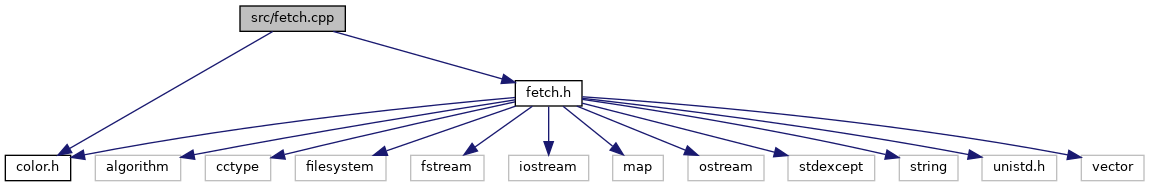
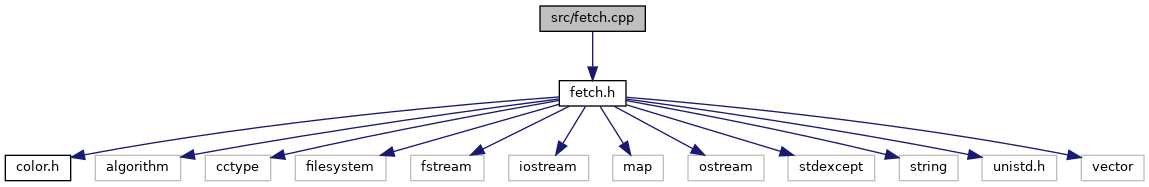
Deploying to gh-pages from @ youpong/procfetch@3544e771dfbbe5641f78a73ec0aed1d468b40a3f 🚀

diff --git a/fetch_8h_source.html b/fetch_8h_source.html
@@ -259,26 +259,36 @@ $(function() {
 <div class="line"><a name="l00245"></a><span class="lineno">  245</span>&#160;        escape_codes += BRIGHT;</div>
 <div class="line"><a name="l00246"></a><span class="lineno">  246</span>&#160;        <span class="keywordflow">return</span> *<span class="keyword">this</span>;</div>
 <div class="line"><a name="l00247"></a><span class="lineno">  247</span>&#160;    }</div>
-<div class="line"><a name="l00248"></a><span class="lineno">  248</span>&#160;    <a class="code" href="classCrayon.html">Crayon</a> color(<span class="keywordtype">string</span> color)</div>
+<div class="line"><a name="l00248"></a><span class="lineno">  248</span>&#160;    <a class="code" href="classCrayon.html">Crayon</a> underscore()</div>
 <div class="line"><a name="l00249"></a><span class="lineno">  249</span>&#160;    {</div>
-<div class="line"><a name="l00250"></a><span class="lineno">  250</span>&#160;        escape_codes += <a class="code" href="fetch_8h.html#aa0627648b948b2ee0ae4b3475bf73894">getColor</a>(color);</div>
+<div class="line"><a name="l00250"></a><span class="lineno">  250</span>&#160;        escape_codes += UNDERSCORE;</div>
 <div class="line"><a name="l00251"></a><span class="lineno">  251</span>&#160;        <span class="keywordflow">return</span> *<span class="keyword">this</span>;</div>
 <div class="line"><a name="l00252"></a><span class="lineno">  252</span>&#160;    }</div>
-<div class="line"><a name="l00253"></a><span class="lineno">  253</span>&#160;    <a class="code" href="classCrayon.html">Crayon</a> red()</div>
+<div class="line"><a name="l00253"></a><span class="lineno">  253</span>&#160;    <a class="code" href="classCrayon.html">Crayon</a> color(<span class="keywordtype">string</span> color)</div>
 <div class="line"><a name="l00254"></a><span class="lineno">  254</span>&#160;    {</div>
-<div class="line"><a name="l00255"></a><span class="lineno">  255</span>&#160;        escape_codes += RED;</div>
+<div class="line"><a name="l00255"></a><span class="lineno">  255</span>&#160;        escape_codes += <a class="code" href="fetch_8h.html#aa0627648b948b2ee0ae4b3475bf73894">getColor</a>(color);</div>
 <div class="line"><a name="l00256"></a><span class="lineno">  256</span>&#160;        <span class="keywordflow">return</span> *<span class="keyword">this</span>;</div>
 <div class="line"><a name="l00257"></a><span class="lineno">  257</span>&#160;    }</div>
-<div class="line"><a name="l00258"></a><span class="lineno">  258</span>&#160;    <a class="code" href="classCrayon.html">Crayon</a> green()</div>
+<div class="line"><a name="l00258"></a><span class="lineno">  258</span>&#160;    <a class="code" href="classCrayon.html">Crayon</a> red()</div>
 <div class="line"><a name="l00259"></a><span class="lineno">  259</span>&#160;    {</div>
-<div class="line"><a name="l00260"></a><span class="lineno">  260</span>&#160;        escape_codes += GREEN;</div>
+<div class="line"><a name="l00260"></a><span class="lineno">  260</span>&#160;        escape_codes += RED;</div>
 <div class="line"><a name="l00261"></a><span class="lineno">  261</span>&#160;        <span class="keywordflow">return</span> *<span class="keyword">this</span>;</div>
 <div class="line"><a name="l00262"></a><span class="lineno">  262</span>&#160;    }</div>
-<div class="line"><a name="l00263"></a><span class="lineno">  263</span>&#160;    <span class="keywordtype">string</span> text(<span class="keywordtype">string</span> s)</div>
+<div class="line"><a name="l00263"></a><span class="lineno">  263</span>&#160;    <a class="code" href="classCrayon.html">Crayon</a> green()</div>
 <div class="line"><a name="l00264"></a><span class="lineno">  264</span>&#160;    {</div>
-<div class="line"><a name="l00265"></a><span class="lineno">  265</span>&#160;        <span class="keywordflow">return</span> escape_codes + s + RESET;</div>
-<div class="line"><a name="l00266"></a><span class="lineno">  266</span>&#160;    }</div>
-<div class="line"><a name="l00267"></a><span class="lineno">  267</span>&#160;};</div>
+<div class="line"><a name="l00265"></a><span class="lineno">  265</span>&#160;        escape_codes += GREEN;</div>
+<div class="line"><a name="l00266"></a><span class="lineno">  266</span>&#160;        <span class="keywordflow">return</span> *<span class="keyword">this</span>;</div>
+<div class="line"><a name="l00267"></a><span class="lineno">  267</span>&#160;    }</div>
+<div class="line"><a name="l00268"></a><span class="lineno">  268</span>&#160;    <a class="code" href="classCrayon.html">Crayon</a> yellow()</div>
+<div class="line"><a name="l00269"></a><span class="lineno">  269</span>&#160;    {</div>
+<div class="line"><a name="l00270"></a><span class="lineno">  270</span>&#160;        escape_codes += YELLOW;</div>
+<div class="line"><a name="l00271"></a><span class="lineno">  271</span>&#160;        <span class="keywordflow">return</span> *<span class="keyword">this</span>;</div>
+<div class="line"><a name="l00272"></a><span class="lineno">  272</span>&#160;    }</div>
+<div class="line"><a name="l00273"></a><span class="lineno">  273</span>&#160;    <span class="keywordtype">string</span> text(<span class="keywordtype">string</span> s)</div>
+<div class="line"><a name="l00274"></a><span class="lineno">  274</span>&#160;    {</div>
+<div class="line"><a name="l00275"></a><span class="lineno">  275</span>&#160;        <span class="keywordflow">return</span> escape_codes + s + RESET;</div>
+<div class="line"><a name="l00276"></a><span class="lineno">  276</span>&#160;    }</div>
+<div class="line"><a name="l00277"></a><span class="lineno">  277</span>&#160;};</div>
 <div class="ttc" id="aclassCommand_html"><div class="ttname"><a href="classCommand.html">Command</a></div><div class="ttdef"><b>Definition:</b> fetch.h:98</div></div>
 <div class="ttc" id="aclassCommand_html_a314e47b7b1733c4fbde4aa77f04fa42e"><div class="ttname"><a href="classCommand.html#a314e47b7b1733c4fbde4aa77f04fa42e">Command::getOutputLines</a></div><div class="ttdeci">int getOutputLines()</div><div class="ttdef"><b>Definition:</b> fetch.h:155</div></div>
 <div class="ttc" id="aclassCommand_html_a41a0a3360bdfddabfff631ef713b898b"><div class="ttname"><a href="classCommand.html#a41a0a3360bdfddabfff631ef713b898b">Command::getExitCode</a></div><div class="ttdeci">int getExitCode()</div><div class="ttdef"><b>Definition:</b> fetch.h:163</div></div>
@@ -292,28 +302,28 @@ $(function() {
 <div class="ttc" id="aclassPath_html_ad4336adffabb2141bcca64470a30ea9c"><div class="ttname"><a href="classPath.html#ad4336adffabb2141bcca64470a30ea9c">Path::is_directory</a></div><div class="ttdeci">bool is_directory()</div><div class="ttdef"><b>Definition:</b> fetch.h:216</div></div>
 <div class="ttc" id="aclassPath_html_ae9f24441f1fea7e664afb6a5ed63d90d"><div class="ttname"><a href="classPath.html#ae9f24441f1fea7e664afb6a5ed63d90d">Path::is_executable</a></div><div class="ttdeci">bool is_executable()</div><div class="ttdef"><b>Definition:</b> fetch.h:205</div></div>
 <div class="ttc" id="acolor_8h_html"><div class="ttname"><a href="color_8h.html">color.h</a></div></div>
-<div class="ttc" id="afetch_8h_html_a0a639fbbc083bf3eb0369107cf8f81f0"><div class="ttname"><a href="fetch_8h.html#a0a639fbbc083bf3eb0369107cf8f81f0">gethostname</a></div><div class="ttdeci">string gethostname(string path)</div><div class="ttdef"><b>Definition:</b> fetch.cpp:19</div></div>
-<div class="ttc" id="afetch_8h_html_a1128630eae1fe9e3bb1236d06e0ee2ad"><div class="ttname"><a href="fetch_8h.html#a1128630eae1fe9e3bb1236d06e0ee2ad">getGPU</a></div><div class="ttdeci">vector&lt; string &gt; getGPU()</div><div class="ttdef"><b>Definition:</b> fetch.cpp:323</div></div>
-<div class="ttc" id="afetch_8h_html_a1623dc7669afbcd773a5ec3bbdded603"><div class="ttname"><a href="fetch_8h.html#a1623dc7669afbcd773a5ec3bbdded603">getHardwarePlatform</a></div><div class="ttdeci">string getHardwarePlatform()</div><div class="ttdef"><b>Definition:</b> fetch.cpp:57</div></div>
-<div class="ttc" id="afetch_8h_html_a47b30181adfedeffc9ade4461b60dc2a"><div class="ttname"><a href="fetch_8h.html#a47b30181adfedeffc9ade4461b60dc2a">getDE</a></div><div class="ttdeci">string getDE()</div><div class="ttdef"><b>Definition:</b> fetch.cpp:230</div></div>
-<div class="ttc" id="afetch_8h_html_a4a87b41bb8b7e8e0ae28581ed2028a9d"><div class="ttname"><a href="fetch_8h.html#a4a87b41bb8b7e8e0ae28581ed2028a9d">getRES</a></div><div class="ttdeci">string getRES(string path)</div><div class="ttdef"><b>Definition:</b> fetch.cpp:239</div></div>
-<div class="ttc" id="afetch_8h_html_a4f6fddf4be974fd932704e831a5c60d1"><div class="ttname"><a href="fetch_8h.html#a4f6fddf4be974fd932704e831a5c60d1">getOS</a></div><div class="ttdeci">string getOS(string path)</div><div class="ttdef"><b>Definition:</b> fetch.cpp:32</div></div>
-<div class="ttc" id="afetch_8h_html_a6b5687ecd7db49ef10af5909892d6ce3"><div class="ttname"><a href="fetch_8h.html#a6b5687ecd7db49ef10af5909892d6ce3">getuser</a></div><div class="ttdeci">string getuser()</div><div class="ttdef"><b>Definition:</b> fetch.cpp:10</div></div>
-<div class="ttc" id="afetch_8h_html_a73f2fe526cbdeb94007aabce5d5b080f"><div class="ttname"><a href="fetch_8h.html#a73f2fe526cbdeb94007aabce5d5b080f">print</a></div><div class="ttdeci">void print(string color, string distro_name)</div><div class="ttdef"><b>Definition:</b> fetch.cpp:442</div></div>
-<div class="ttc" id="afetch_8h_html_a75d6ab52c4b1db30ff093894ac805f40"><div class="ttname"><a href="fetch_8h.html#a75d6ab52c4b1db30ff093894ac805f40">getPackages</a></div><div class="ttdeci">string getPackages()</div><div class="ttdef"><b>Definition:</b> fetch.cpp:347</div></div>
+<div class="ttc" id="afetch_8h_html_a0a639fbbc083bf3eb0369107cf8f81f0"><div class="ttname"><a href="fetch_8h.html#a0a639fbbc083bf3eb0369107cf8f81f0">gethostname</a></div><div class="ttdeci">string gethostname(string path)</div><div class="ttdef"><b>Definition:</b> fetch.cpp:18</div></div>
+<div class="ttc" id="afetch_8h_html_a1128630eae1fe9e3bb1236d06e0ee2ad"><div class="ttname"><a href="fetch_8h.html#a1128630eae1fe9e3bb1236d06e0ee2ad">getGPU</a></div><div class="ttdeci">vector&lt; string &gt; getGPU()</div><div class="ttdef"><b>Definition:</b> fetch.cpp:322</div></div>
+<div class="ttc" id="afetch_8h_html_a1623dc7669afbcd773a5ec3bbdded603"><div class="ttname"><a href="fetch_8h.html#a1623dc7669afbcd773a5ec3bbdded603">getHardwarePlatform</a></div><div class="ttdeci">string getHardwarePlatform()</div><div class="ttdef"><b>Definition:</b> fetch.cpp:56</div></div>
+<div class="ttc" id="afetch_8h_html_a47b30181adfedeffc9ade4461b60dc2a"><div class="ttname"><a href="fetch_8h.html#a47b30181adfedeffc9ade4461b60dc2a">getDE</a></div><div class="ttdeci">string getDE()</div><div class="ttdef"><b>Definition:</b> fetch.cpp:229</div></div>
+<div class="ttc" id="afetch_8h_html_a4a87b41bb8b7e8e0ae28581ed2028a9d"><div class="ttname"><a href="fetch_8h.html#a4a87b41bb8b7e8e0ae28581ed2028a9d">getRES</a></div><div class="ttdeci">string getRES(string path)</div><div class="ttdef"><b>Definition:</b> fetch.cpp:238</div></div>
+<div class="ttc" id="afetch_8h_html_a4f6fddf4be974fd932704e831a5c60d1"><div class="ttname"><a href="fetch_8h.html#a4f6fddf4be974fd932704e831a5c60d1">getOS</a></div><div class="ttdeci">string getOS(string path)</div><div class="ttdef"><b>Definition:</b> fetch.cpp:31</div></div>
+<div class="ttc" id="afetch_8h_html_a6b5687ecd7db49ef10af5909892d6ce3"><div class="ttname"><a href="fetch_8h.html#a6b5687ecd7db49ef10af5909892d6ce3">getuser</a></div><div class="ttdeci">string getuser()</div><div class="ttdef"><b>Definition:</b> fetch.cpp:9</div></div>
+<div class="ttc" id="afetch_8h_html_a73f2fe526cbdeb94007aabce5d5b080f"><div class="ttname"><a href="fetch_8h.html#a73f2fe526cbdeb94007aabce5d5b080f">print</a></div><div class="ttdeci">void print(string color, string distro_name)</div><div class="ttdef"><b>Definition:</b> fetch.cpp:441</div></div>
+<div class="ttc" id="afetch_8h_html_a75d6ab52c4b1db30ff093894ac805f40"><div class="ttname"><a href="fetch_8h.html#a75d6ab52c4b1db30ff093894ac805f40">getPackages</a></div><div class="ttdeci">string getPackages()</div><div class="ttdef"><b>Definition:</b> fetch.cpp:346</div></div>
 <div class="ttc" id="afetch_8h_html_a75d79411d2a46aab2a7ef1ff8e23b65d"><div class="ttname"><a href="fetch_8h.html#a75d79411d2a46aab2a7ef1ff8e23b65d">test_util</a></div><div class="ttdeci">void test_util()</div><div class="ttdef"><b>Definition:</b> util.cpp:143</div></div>
-<div class="ttc" id="afetch_8h_html_a82cbf4d4e9927420fcf624439fad7ebf"><div class="ttname"><a href="fetch_8h.html#a82cbf4d4e9927420fcf624439fad7ebf">getUpTime</a></div><div class="ttdeci">string getUpTime(string path)</div><div class="ttdef"><b>Definition:</b> fetch.cpp:105</div></div>
-<div class="ttc" id="afetch_8h_html_a92893f60492e0d737c5a9fcc7d5fb4e4"><div class="ttname"><a href="fetch_8h.html#a92893f60492e0d737c5a9fcc7d5fb4e4">getCPU</a></div><div class="ttdeci">string getCPU(string path)</div><div class="ttdef"><b>Definition:</b> fetch.cpp:275</div></div>
+<div class="ttc" id="afetch_8h_html_a82cbf4d4e9927420fcf624439fad7ebf"><div class="ttname"><a href="fetch_8h.html#a82cbf4d4e9927420fcf624439fad7ebf">getUpTime</a></div><div class="ttdeci">string getUpTime(string path)</div><div class="ttdef"><b>Definition:</b> fetch.cpp:104</div></div>
+<div class="ttc" id="afetch_8h_html_a92893f60492e0d737c5a9fcc7d5fb4e4"><div class="ttname"><a href="fetch_8h.html#a92893f60492e0d737c5a9fcc7d5fb4e4">getCPU</a></div><div class="ttdeci">string getCPU(string path)</div><div class="ttdef"><b>Definition:</b> fetch.cpp:274</div></div>
 <div class="ttc" id="afetch_8h_html_aa0627648b948b2ee0ae4b3475bf73894"><div class="ttname"><a href="fetch_8h.html#aa0627648b948b2ee0ae4b3475bf73894">getColor</a></div><div class="ttdeci">string getColor(string)</div><div class="ttdef"><b>Definition:</b> util.cpp:11</div></div>
-<div class="ttc" id="afetch_8h_html_aaed77d38be492b2328719483f8bdd685"><div class="ttname"><a href="fetch_8h.html#aaed77d38be492b2328719483f8bdd685">getRAM</a></div><div class="ttdeci">string getRAM(string path)</div><div class="ttdef"><b>Definition:</b> fetch.cpp:140</div></div>
+<div class="ttc" id="afetch_8h_html_aaed77d38be492b2328719483f8bdd685"><div class="ttname"><a href="fetch_8h.html#aaed77d38be492b2328719483f8bdd685">getRAM</a></div><div class="ttdeci">string getRAM(string path)</div><div class="ttdef"><b>Definition:</b> fetch.cpp:139</div></div>
 <div class="ttc" id="afetch_8h_html_abf0ef22de70cb60f180d958d00eddc04"><div class="ttname"><a href="fetch_8h.html#abf0ef22de70cb60f180d958d00eddc04">expect</a></div><div class="ttdeci">void expect(const T &amp;want, const T &amp;got, const string &amp;msg)</div><div class="ttdef"><b>Definition:</b> fetch.h:75</div></div>
-<div class="ttc" id="afetch_8h_html_ac0cfc567ca2b179ab3a2c5f1ece9626f"><div class="ttname"><a href="fetch_8h.html#ac0cfc567ca2b179ab3a2c5f1ece9626f">getTheme</a></div><div class="ttdeci">string getTheme()</div><div class="ttdef"><b>Definition:</b> fetch.cpp:252</div></div>
-<div class="ttc" id="afetch_8h_html_ad590bc5922119d92bac6e19eb6a839bf"><div class="ttname"><a href="fetch_8h.html#ad590bc5922119d92bac6e19eb6a839bf">CpuTempCheck</a></div><div class="ttdeci">bool CpuTempCheck()</div><div class="ttdef"><b>Definition:</b> fetch.cpp:311</div></div>
-<div class="ttc" id="afetch_8h_html_ad6591b01491d114d0f4380a62f9bd458"><div class="ttname"><a href="fetch_8h.html#ad6591b01491d114d0f4380a62f9bd458">getKernel</a></div><div class="ttdeci">string getKernel(string path)</div><div class="ttdef"><b>Definition:</b> fetch.cpp:92</div></div>
-<div class="ttc" id="afetch_8h_html_ae4d5547f076db6b472a7ae88da2bccc2"><div class="ttname"><a href="fetch_8h.html#ae4d5547f076db6b472a7ae88da2bccc2">getHost</a></div><div class="ttdeci">string getHost(string path)</div><div class="ttdef"><b>Definition:</b> fetch.cpp:68</div></div>
-<div class="ttc" id="afetch_8h_html_af2aa8ad92d7543a36ff1ed2ac81b35e6"><div class="ttname"><a href="fetch_8h.html#af2aa8ad92d7543a36ff1ed2ac81b35e6">getCPUtemp</a></div><div class="ttdeci">int getCPUtemp(string path)</div><div class="ttdef"><b>Definition:</b> fetch.cpp:299</div></div>
-<div class="ttc" id="afetch_8h_html_afa41229b134f4682d48af16ec8f84b3d"><div class="ttname"><a href="fetch_8h.html#afa41229b134f4682d48af16ec8f84b3d">getIcons</a></div><div class="ttdeci">string getIcons()</div><div class="ttdef"><b>Definition:</b> fetch.cpp:263</div></div>
-<div class="ttc" id="afetch_8h_html_affc4f0a4183f37fcc72d75432ca2d829"><div class="ttname"><a href="fetch_8h.html#affc4f0a4183f37fcc72d75432ca2d829">getSHELL</a></div><div class="ttdeci">string getSHELL(string path)</div><div class="ttdef"><b>Definition:</b> fetch.cpp:207</div></div>
+<div class="ttc" id="afetch_8h_html_ac0cfc567ca2b179ab3a2c5f1ece9626f"><div class="ttname"><a href="fetch_8h.html#ac0cfc567ca2b179ab3a2c5f1ece9626f">getTheme</a></div><div class="ttdeci">string getTheme()</div><div class="ttdef"><b>Definition:</b> fetch.cpp:251</div></div>
+<div class="ttc" id="afetch_8h_html_ad590bc5922119d92bac6e19eb6a839bf"><div class="ttname"><a href="fetch_8h.html#ad590bc5922119d92bac6e19eb6a839bf">CpuTempCheck</a></div><div class="ttdeci">bool CpuTempCheck()</div><div class="ttdef"><b>Definition:</b> fetch.cpp:310</div></div>
+<div class="ttc" id="afetch_8h_html_ad6591b01491d114d0f4380a62f9bd458"><div class="ttname"><a href="fetch_8h.html#ad6591b01491d114d0f4380a62f9bd458">getKernel</a></div><div class="ttdeci">string getKernel(string path)</div><div class="ttdef"><b>Definition:</b> fetch.cpp:91</div></div>
+<div class="ttc" id="afetch_8h_html_ae4d5547f076db6b472a7ae88da2bccc2"><div class="ttname"><a href="fetch_8h.html#ae4d5547f076db6b472a7ae88da2bccc2">getHost</a></div><div class="ttdeci">string getHost(string path)</div><div class="ttdef"><b>Definition:</b> fetch.cpp:67</div></div>
+<div class="ttc" id="afetch_8h_html_af2aa8ad92d7543a36ff1ed2ac81b35e6"><div class="ttname"><a href="fetch_8h.html#af2aa8ad92d7543a36ff1ed2ac81b35e6">getCPUtemp</a></div><div class="ttdeci">int getCPUtemp(string path)</div><div class="ttdef"><b>Definition:</b> fetch.cpp:298</div></div>
+<div class="ttc" id="afetch_8h_html_afa41229b134f4682d48af16ec8f84b3d"><div class="ttname"><a href="fetch_8h.html#afa41229b134f4682d48af16ec8f84b3d">getIcons</a></div><div class="ttdeci">string getIcons()</div><div class="ttdef"><b>Definition:</b> fetch.cpp:262</div></div>
+<div class="ttc" id="afetch_8h_html_affc4f0a4183f37fcc72d75432ca2d829"><div class="ttname"><a href="fetch_8h.html#affc4f0a4183f37fcc72d75432ca2d829">getSHELL</a></div><div class="ttdeci">string getSHELL(string path)</div><div class="ttdef"><b>Definition:</b> fetch.cpp:206</div></div>
 </div><!-- fragment --></div><!-- contents -->
 <!-- start footer part -->
 <hr class="footer"/><address class="footer"><small>

diff --git a/classCrayon.html b/classCrayon.html
@@ -74,6 +74,9 @@ Public Member Functions</h2></td></tr>
 <tr class="memitem:a47fb69fa9dfc8e495cd799057a8bd6c2"><td class="memItemLeft" align="right" valign="top"><a id="a47fb69fa9dfc8e495cd799057a8bd6c2"></a>
 <a class="el" href="classCrayon.html">Crayon</a>&#160;</td><td class="memItemRight" valign="bottom"><b>bright</b> ()</td></tr>
 <tr class="separator:a47fb69fa9dfc8e495cd799057a8bd6c2"><td class="memSeparator" colspan="2">&#160;</td></tr>
+<tr class="memitem:ab39cbd748948fe56fe5a2a1619d19f97"><td class="memItemLeft" align="right" valign="top"><a id="ab39cbd748948fe56fe5a2a1619d19f97"></a>
+<a class="el" href="classCrayon.html">Crayon</a>&#160;</td><td class="memItemRight" valign="bottom"><b>underscore</b> ()</td></tr>
+<tr class="separator:ab39cbd748948fe56fe5a2a1619d19f97"><td class="memSeparator" colspan="2">&#160;</td></tr>
 <tr class="memitem:aabf626c0efaf5363a6c8ee3aa48ddc12"><td class="memItemLeft" align="right" valign="top"><a id="aabf626c0efaf5363a6c8ee3aa48ddc12"></a>
 <a class="el" href="classCrayon.html">Crayon</a>&#160;</td><td class="memItemRight" valign="bottom"><b>color</b> (string color)</td></tr>
 <tr class="separator:aabf626c0efaf5363a6c8ee3aa48ddc12"><td class="memSeparator" colspan="2">&#160;</td></tr>
@@ -83,6 +86,9 @@ Public Member Functions</h2></td></tr>
 <tr class="memitem:a86d6fdfad59b3712367e00d1daa4bc28"><td class="memItemLeft" align="right" valign="top"><a id="a86d6fdfad59b3712367e00d1daa4bc28"></a>
 <a class="el" href="classCrayon.html">Crayon</a>&#160;</td><td class="memItemRight" valign="bottom"><b>green</b> ()</td></tr>
 <tr class="separator:a86d6fdfad59b3712367e00d1daa4bc28"><td class="memSeparator" colspan="2">&#160;</td></tr>
+<tr class="memitem:a118e286440aa67bcca97aea4f5856ded"><td class="memItemLeft" align="right" valign="top"><a id="a118e286440aa67bcca97aea4f5856ded"></a>
+<a class="el" href="classCrayon.html">Crayon</a>&#160;</td><td class="memItemRight" valign="bottom"><b>yellow</b> ()</td></tr>
+<tr class="separator:a118e286440aa67bcca97aea4f5856ded"><td class="memSeparator" colspan="2">&#160;</td></tr>
 <tr class="memitem:a29fb5b6777cda07f4af7227ba6c99625"><td class="memItemLeft" align="right" valign="top"><a id="a29fb5b6777cda07f4af7227ba6c99625"></a>
 string&#160;</td><td class="memItemRight" valign="bottom"><b>text</b> (string s)</td></tr>
 <tr class="separator:a29fb5b6777cda07f4af7227ba6c99625"><td class="memSeparator" colspan="2">&#160;</td></tr>

diff --git a/classCrayon-members.html b/classCrayon-members.html
@@ -74,6 +74,8 @@ $(function() {
   <tr bgcolor="#f0f0f0"><td class="entry"><b>green</b>() (defined in <a class="el" href="classCrayon.html">Crayon</a>)</td><td class="entry"><a class="el" href="classCrayon.html">Crayon</a></td><td class="entry"><span class="mlabel">inline</span></td></tr>
   <tr bgcolor="#f0f0f0" class="even"><td class="entry"><b>red</b>() (defined in <a class="el" href="classCrayon.html">Crayon</a>)</td><td class="entry"><a class="el" href="classCrayon.html">Crayon</a></td><td class="entry"><span class="mlabel">inline</span></td></tr>
   <tr bgcolor="#f0f0f0"><td class="entry"><b>text</b>(string s) (defined in <a class="el" href="classCrayon.html">Crayon</a>)</td><td class="entry"><a class="el" href="classCrayon.html">Crayon</a></td><td class="entry"><span class="mlabel">inline</span></td></tr>
+  <tr bgcolor="#f0f0f0" class="even"><td class="entry"><b>underscore</b>() (defined in <a class="el" href="classCrayon.html">Crayon</a>)</td><td class="entry"><a class="el" href="classCrayon.html">Crayon</a></td><td class="entry"><span class="mlabel">inline</span></td></tr>
+  <tr bgcolor="#f0f0f0"><td class="entry"><b>yellow</b>() (defined in <a class="el" href="classCrayon.html">Crayon</a>)</td><td class="entry"><a class="el" href="classCrayon.html">Crayon</a></td><td class="entry"><span class="mlabel">inline</span></td></tr>
 </table></div><!-- contents -->
 <!-- start footer part -->
 <hr class="footer"/><address class="footer"><small>

diff --git a/main_8cpp.html b/main_8cpp.html
@@ -71,16 +71,15 @@ $(function() {
 <div class="title">main.cpp File Reference</div>  </div>
 </div><!--header-->
 <div class="contents">
-<div class="textblock"><code>#include &quot;<a class="el" href="color_8h_source.html">color.h</a>&quot;</code><br />
-<code>#include &quot;<a class="el" href="fetch_8h_source.html">fetch.h</a>&quot;</code><br />
+<div class="textblock"><code>#include &quot;<a class="el" href="fetch_8h_source.html">fetch.h</a>&quot;</code><br />
 </div><div class="textblock"><div class="dynheader">
 Include dependency graph for main.cpp:</div>
 <div class="dyncontent">
 <div class="center"><img src="main_8cpp__incl.png" border="0" usemap="#asrc_2main_8cpp" alt=""/></div>
 <map name="asrc_2main_8cpp" id="asrc_2main_8cpp">
-<area shape="rect" title=" " alt="" coords="240,5,345,32"/>
+<area shape="rect" title=" " alt="" coords="540,5,645,32"/>
+<area shape="rect" href="fetch_8h.html" title=" " alt="" coords="559,80,626,107"/>
 <area shape="rect" href="color_8h.html" title=" " alt="" coords="5,155,71,181"/>
-<area shape="rect" href="fetch_8h.html" title=" " alt="" coords="515,80,582,107"/>
 <area shape="rect" title=" " alt="" coords="95,155,181,181"/>
 <area shape="rect" title=" " alt="" coords="205,155,271,181"/>
 <area shape="rect" title=" " alt="" coords="295,155,386,181"/>

diff --git a/fetch_8cpp.html b/fetch_8cpp.html
@@ -72,14 +72,13 @@ $(function() {
 </div><!--header-->
 <div class="contents">
 <div class="textblock"><code>#include &quot;<a class="el" href="fetch_8h_source.html">fetch.h</a>&quot;</code><br />
-<code>#include &quot;<a class="el" href="color_8h_source.html">color.h</a>&quot;</code><br />
 </div><div class="textblock"><div class="dynheader">
 Include dependency graph for fetch.cpp:</div>
 <div class="dyncontent">
 <div class="center"><img src="fetch_8cpp__incl.png" border="0" usemap="#asrc_2fetch_8cpp" alt=""/></div>
 <map name="asrc_2fetch_8cpp" id="asrc_2fetch_8cpp">
-<area shape="rect" title=" " alt="" coords="240,5,345,32"/>
-<area shape="rect" href="fetch_8h.html" title=" " alt="" coords="515,80,582,107"/>
+<area shape="rect" title=" " alt="" coords="540,5,645,32"/>
+<area shape="rect" href="fetch_8h.html" title=" " alt="" coords="559,80,626,107"/>
 <area shape="rect" href="color_8h.html" title=" " alt="" coords="5,155,71,181"/>
 <area shape="rect" title=" " alt="" coords="95,155,181,181"/>
 <area shape="rect" title=" " alt="" coords="205,155,271,181"/>

diff --git a/color_8h.html b/color_8h.html
@@ -76,11 +76,11 @@ This graph shows which files directly or indirectly include this file:</div>
 <div class="dyncontent">
 <div class="center"><img src="color_8h__dep__incl.png" border="0" usemap="#asrc_2color_8hdep" alt=""/></div>
 <map name="asrc_2color_8hdep" id="asrc_2color_8hdep">
-<area shape="rect" title=" " alt="" coords="166,5,254,32"/>
-<area shape="rect" href="fetch_8cpp.html" title=" " alt="" coords="5,155,111,181"/>
-<area shape="rect" href="fetch_8h.html" title=" " alt="" coords="123,80,214,107"/>
-<area shape="rect" href="main_8cpp.html" title=" " alt="" coords="135,155,240,181"/>
+<area shape="rect" title=" " alt="" coords="205,5,293,32"/>
+<area shape="rect" href="fetch_8h.html" title=" " alt="" coords="162,80,253,107"/>
 <area shape="rect" href="util_8cpp.html" title=" " alt="" coords="265,155,358,181"/>
+<area shape="rect" href="fetch_8cpp.html" title=" " alt="" coords="5,155,111,181"/>
+<area shape="rect" href="main_8cpp.html" title=" " alt="" coords="135,155,240,181"/>
 </map>
 </div>
 </div>
